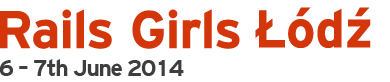
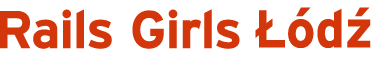
classes unified with html names

Changed region(s): [[0.0, 0.7073, 0.4923, 0.9268]]

diff --git a/lodz.html b/lodz.html
@@ -60,9 +60,9 @@ Steps to show on site
         It will take a while before the changes show, so don't panic!
 
 -->
-<div id="container" class="container_12 page clearfix lodz2016">
+<div id="container" class="container_12 page clearfix lodz">
 <div class="grid_12 omega alpha">
-<div id="promo" class="lodz lodz2016" style="padding-bottom: 30px;">
+<div id="promo" class="lodz lodz" style="padding-bottom: 30px;">
     <h1>Rails Girls Łódź
         <small>17-18th June 2016</small>
     </h1>
@@ -194,7 +194,7 @@ Steps to show on site
 </table> -->
 
 <div class="coaches">
-    <hr/>
+    <!--<hr/> -->
     <h2>Meet our team!</h2>
 
     <!-- organisers -->
@@ -217,7 +217,7 @@ Steps to show on site
         <small>@_idengager</small>
     </a>
 
-    <a href="https://twitter.com/ciszakmartyna" class="grid_3">
+    <a href="https://twitter.com/alpha_k_sierra" class="grid_3">
         Agata Salska<br/>
         organiser
         <small>@alpha_k_sierra</small>

diff --git a/css/style.css b/css/style.css
@@ -872,13 +872,13 @@ background:url('../images/rg-yourcityname.png') no-repeat 0 10px,
   background:url('../images/rg-lodz-header-2015.png') no-repeat left top;
 }
 
-.lodz2016#promo {
+.lodz2014#promo {
           padding-left:340px;
           background:url('../images/rg-lodz.png') no-repeat 0 10px;
                          url('../images/separator.png') no-repeat center bottom;
         }
-.lodz2016#promo h1 {
-  background:url('../images/rg-lodz-header-2016.png') no-repeat left top;
+.lodz2014#promo h1 {
+  background:url('../images/rg-lodz-header-2014.png') no-repeat left top;
 }
 
 .saarbruecken#promo {

diff --git a/lodz2014.html b/lodz2014.html
@@ -58,7 +58,7 @@ Steps to show on site
 -->
     <div id="container" class="container_12 page clearfix">
       <div class="grid_12 omega alpha">
-        <div id="promo" class="lodz">
+        <div id="promo" class="lodz2014">
         <h1>Rails Girls Łódź
             <small>6-7th June 2014</small>
         </h1>
